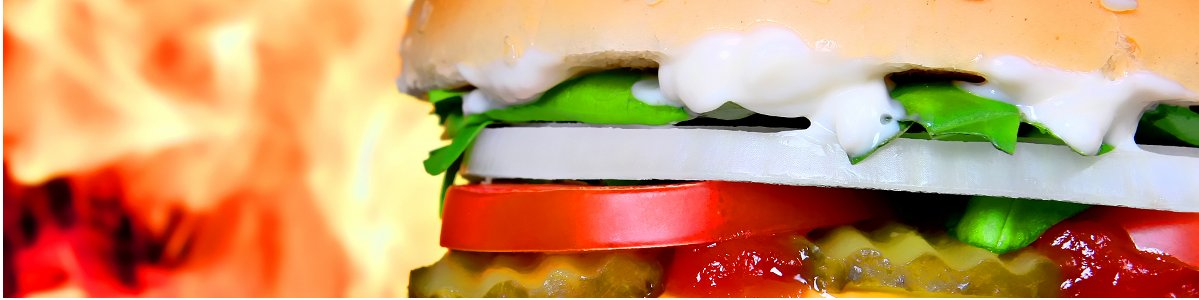
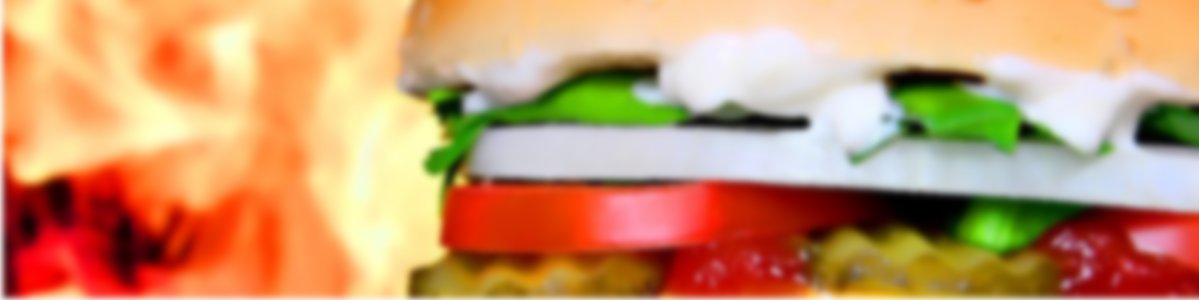
Correção do tamanho da imagem de fundo para mobile e descagem de todas as imagens de fundo

diff --git a/public/assets/css/quefome.css b/public/assets/css/quefome.css
@@ -78,7 +78,7 @@ a:hover, a:focus {
 
 .delivery-search-panel {
 	width: 100%;
-	min-height: 300px;
+	min-height: 504px;
 	background-repeat: no-repeat;
 	background-size: cover;
 	background-position: center center;
@@ -87,7 +87,7 @@ a:hover, a:focus {
 }
 
 .delivery-search-panel.banner-burger {
-	background-image: url("/assets/img/banner_burger_767x300.jpg");
+	background-image: url("/assets/img/banner_burger_761x504.jpg");
 }
 
 .delivery-search-panel .food-type-search {
@@ -675,6 +675,10 @@ input.invalid:focus, select.invalid:focus {
 	.register-dialog .login-panel {
 		width: 29%;
 		padding-top: 17%;
+	}
+
+	.delivery-search-panel {
+		min-height: 300px;
 	}
 
 	.delivery-search-panel.banner-burger {
